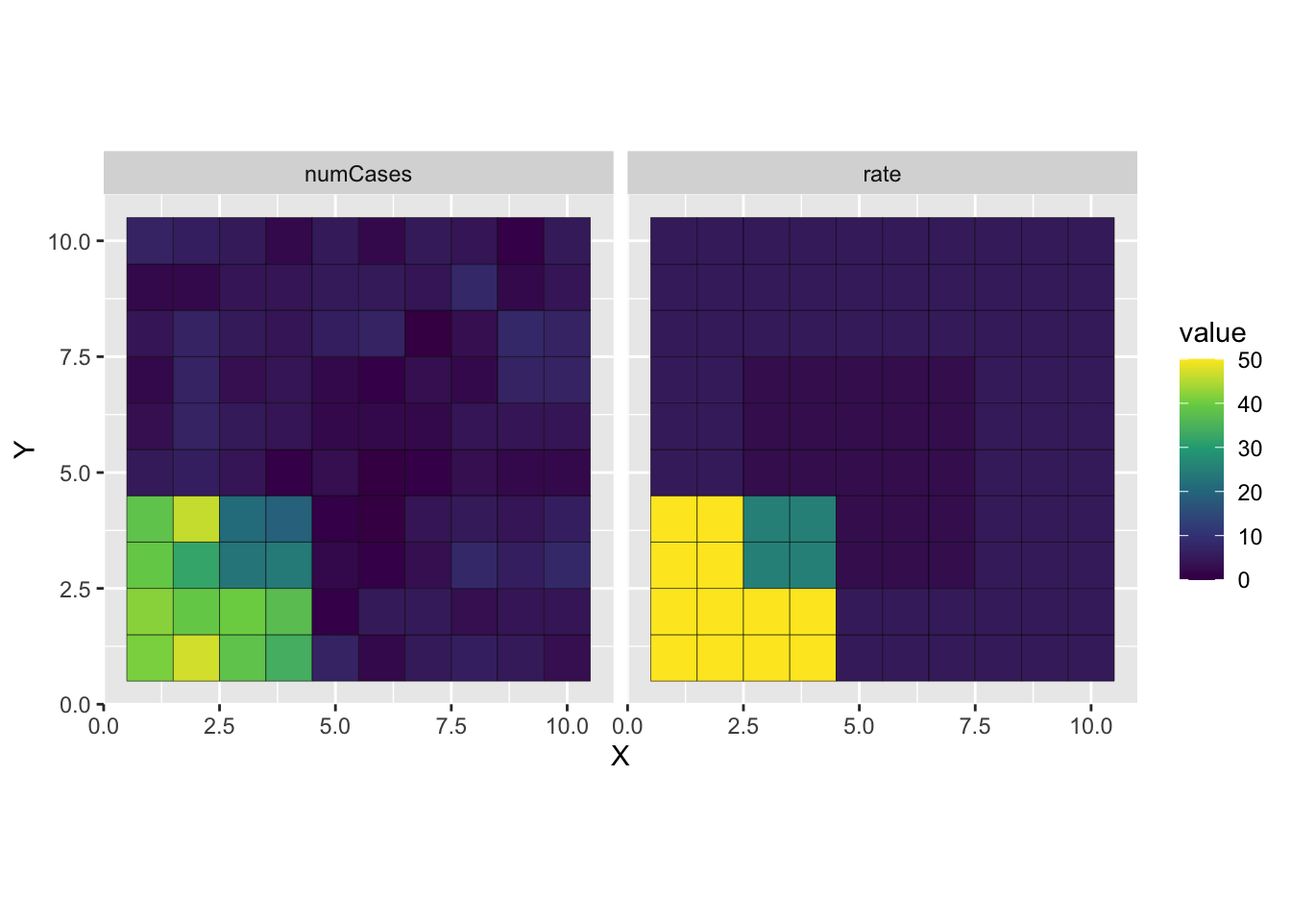
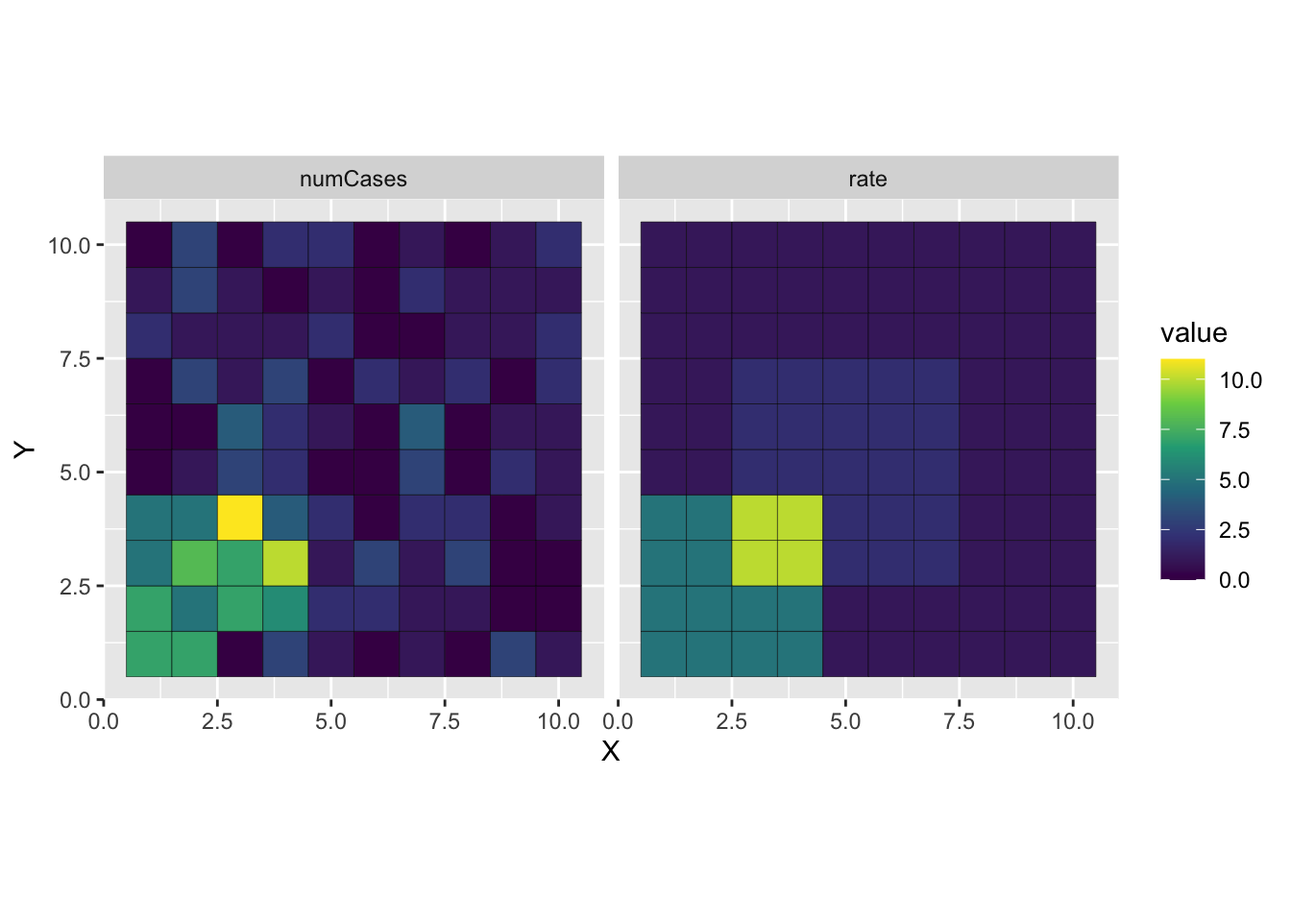
Built site for gh-pages

Changed region(s): [[0.0312, 0.1562, 1.0, 0.8438], [0.0312, 0.5, 0.0625, 0.5312]]

diff --git a/getis-ord.html b/getis-ord.html
@@ -297,8 +297,12 @@ window.Quarto = {
   <ul class="collapse">
   <li><a href="#exercises-1" id="toc-exercises-1" class="nav-link" data-scroll-target="#exercises-1">Exercises</a></li>
   </ul></li>
-  <li><a href="#calculate-getis-ord-gi-for-simulated-data-using-spdep" id="toc-calculate-getis-ord-gi-for-simulated-data-using-spdep" class="nav-link" data-scroll-target="#calculate-getis-ord-gi-for-simulated-data-using-spdep"><span class="header-section-number">6.5</span> Calculate Getis-Ord Gi* for simulated data using <code>spdep</code></a></li>
-  <li><a href="#plot-labeled-outcomes" id="toc-plot-labeled-outcomes" class="nav-link" data-scroll-target="#plot-labeled-outcomes"><span class="header-section-number">6.6</span> Plot labeled outcomes</a></li>
+  <li><a href="#from-local-to-global-clustering-calculating-g" id="toc-from-local-to-global-clustering-calculating-g" class="nav-link" data-scroll-target="#from-local-to-global-clustering-calculating-g"><span class="header-section-number">6.5</span> From local to global clustering: Calculating <span class="math inline">\(G^*\)</span></a>
+  <ul class="collapse">
+  <li><a href="#exercises-2" id="toc-exercises-2" class="nav-link" data-scroll-target="#exercises-2">Exercises</a></li>
+  </ul></li>
+  <li><a href="#calculate-getis-ord-gi-for-simulated-data-using-spdep" id="toc-calculate-getis-ord-gi-for-simulated-data-using-spdep" class="nav-link" data-scroll-target="#calculate-getis-ord-gi-for-simulated-data-using-spdep"><span class="header-section-number">6.6</span> Calculate Getis-Ord Gi* for simulated data using <code>spdep</code></a></li>
+  <li><a href="#plot-labeled-outcomes" id="toc-plot-labeled-outcomes" class="nav-link" data-scroll-target="#plot-labeled-outcomes"><span class="header-section-number">6.7</span> Plot labeled outcomes</a></li>
   </ul>
 </nav>
     </div>
@@ -353,61 +357,73 @@ window.Quarto = {
 <span id="cb2-17"><a href="#cb2-17" aria-hidden="true" tabindex="-1"></a>}</span></code><button title="Copy to Clipboard" class="code-copy-button"><i class="bi"></i></button></pre></div>
 </div>
 <div class="cell">
-<div class="sourceCode cell-code" id="cb3"><pre class="sourceCode r code-with-copy"><code class="sourceCode r"><span id="cb3-1"><a href="#cb3-1" aria-hidden="true" tabindex="-1"></a>overlappingRiskGrid <span class="ot">&lt;-</span> <span class="cf">function</span>(D, N, <span class="at">alpha =</span> <span class="dv">1</span>, <span class="at">tl =</span> <span class="fl">2.0</span>, <span class="at">center =</span> <span class="fl">2.0</span>) {</span>
-<span id="cb3-2"><a href="#cb3-2" aria-hidden="true" tabindex="-1"></a>  grid_df <span class="ot">&lt;-</span> <span class="fu">makeSquareGrid</span>(D)</span>
-<span id="cb3-3"><a href="#cb3-3" aria-hidden="true" tabindex="-1"></a></span>
-<span id="cb3-4"><a href="#cb3-4" aria-hidden="true" tabindex="-1"></a>  grid_df<span class="sc">$</span>N <span class="ot">&lt;-</span> N</span>
-<span id="cb3-5"><a href="#cb3-5" aria-hidden="true" tabindex="-1"></a></span>
-<span id="cb3-6"><a href="#cb3-6" aria-hidden="true" tabindex="-1"></a>  <span class="do">## This is the background, per-capita rate in each</span></span>
-<span id="cb3-7"><a href="#cb3-7" aria-hidden="true" tabindex="-1"></a>  <span class="do">## cell of our city</span></span>
-<span id="cb3-8"><a href="#cb3-8" aria-hidden="true" tabindex="-1"></a>  baseline_per_capita <span class="ot">&lt;-</span> alpha</span>
-<span id="cb3-9"><a href="#cb3-9" aria-hidden="true" tabindex="-1"></a></span>
-<span id="cb3-10"><a href="#cb3-10" aria-hidden="true" tabindex="-1"></a>  <span class="do">## This is the relative risk of the outcome for individuals</span></span>
-<span id="cb3-11"><a href="#cb3-11" aria-hidden="true" tabindex="-1"></a>  <span class="do">## in the top-left qudrant</span></span>
-<span id="cb3-12"><a href="#cb3-12" aria-hidden="true" tabindex="-1"></a>  top_left_rr <span class="ot">&lt;-</span> tl</span>
-<span id="cb3-13"><a href="#cb3-13" aria-hidden="true" tabindex="-1"></a></span>
-<span id="cb3-14"><a href="#cb3-14" aria-hidden="true" tabindex="-1"></a>  <span class="do">## This is the relative risk of the outcome for</span></span>
-<span id="cb3-15"><a href="#cb3-15" aria-hidden="true" tabindex="-1"></a>  <span class="do">## individuals living towards the center of the</span></span>
-<span id="cb3-16"><a href="#cb3-16" aria-hidden="true" tabindex="-1"></a>  <span class="do">## simulated city</span></span>
-<span id="cb3-17"><a href="#cb3-17" aria-hidden="true" tabindex="-1"></a>  center_rr <span class="ot">&lt;-</span> center</span>
-<span id="cb3-18"><a href="#cb3-18" aria-hidden="true" tabindex="-1"></a></span>
-<span id="cb3-19"><a href="#cb3-19" aria-hidden="true" tabindex="-1"></a>  <span class="do">## Here, we initialize a variable for the per-capita rate</span></span>
-<span id="cb3-20"><a href="#cb3-20" aria-hidden="true" tabindex="-1"></a>  <span class="do">## within each cell</span></span>
-<span id="cb3-21"><a href="#cb3-21" aria-hidden="true" tabindex="-1"></a>  grid_df<span class="sc">$</span>rate <span class="ot">&lt;-</span> <span class="dv">0</span></span>
-<span id="cb3-22"><a href="#cb3-22" aria-hidden="true" tabindex="-1"></a></span>
-<span id="cb3-23"><a href="#cb3-23" aria-hidden="true" tabindex="-1"></a>  <span class="do">## Make the middle risk area 4 x 4 and the top-left area also 4x4</span></span>
-<span id="cb3-24"><a href="#cb3-24" aria-hidden="true" tabindex="-1"></a></span>
-<span id="cb3-25"><a href="#cb3-25" aria-hidden="true" tabindex="-1"></a>  center_low_xy <span class="ot">&lt;-</span> <span class="fu">round</span>(D <span class="sc">/</span> <span class="dv">2</span>) <span class="sc">-</span> <span class="dv">2</span></span>
-<span id="cb3-26"><a href="#cb3-26" aria-hidden="true" tabindex="-1"></a>  center_high_xy <span class="ot">&lt;-</span> <span class="fu">round</span>(D <span class="sc">/</span> <span class="dv">2</span>) <span class="sc">+</span> <span class="dv">2</span></span>
-<span id="cb3-27"><a href="#cb3-27" aria-hidden="true" tabindex="-1"></a></span>
-<span id="cb3-28"><a href="#cb3-28" aria-hidden="true" tabindex="-1"></a>  <span class="do">## This is just filling in the per-capita rates for each cell</span></span>
-<span id="cb3-29"><a href="#cb3-29" aria-hidden="true" tabindex="-1"></a>  <span class="do">## as a function of where they are on the grid (assuming a 10 x 10 grid)</span></span>
-<span id="cb3-30"><a href="#cb3-30" aria-hidden="true" tabindex="-1"></a>  grid_df <span class="ot">&lt;-</span> grid_df <span class="sc">%&gt;%</span></span>
-<span id="cb3-31"><a href="#cb3-31" aria-hidden="true" tabindex="-1"></a>    <span class="fu">mutate</span>(<span class="at">rate =</span> <span class="fu">case_when</span>(<span class="fu">between</span>(X, <span class="dv">1</span>, <span class="dv">4</span>) <span class="sc">&amp;</span> <span class="fu">between</span>(Y, <span class="dv">1</span>, <span class="dv">4</span>) <span class="sc">~</span> baseline_per_capita <span class="sc">*</span> top_left_rr,</span>
-<span id="cb3-32"><a href="#cb3-32" aria-hidden="true" tabindex="-1"></a>      <span class="at">.default =</span> baseline_per_capita</span>
-<span id="cb3-33"><a href="#cb3-33" aria-hidden="true" tabindex="-1"></a>    )) <span class="sc">%&gt;%</span></span>
-<span id="cb3-34"><a href="#cb3-34" aria-hidden="true" tabindex="-1"></a>    <span class="fu">mutate</span>(<span class="at">rate =</span> <span class="fu">case_when</span>(<span class="fu">between</span>(X, center_low_xy, center_high_xy) <span class="sc">&amp;</span> <span class="fu">between</span>(Y, center_low_xy, center_high_xy) <span class="sc">~</span> rate <span class="sc">*</span> center_rr,</span>
-<span id="cb3-35"><a href="#cb3-35" aria-hidden="true" tabindex="-1"></a>      <span class="at">.default =</span> rate</span>
-<span id="cb3-36"><a href="#cb3-36" aria-hidden="true" tabindex="-1"></a>    ))</span>
-<span id="cb3-37"><a href="#cb3-37" aria-hidden="true" tabindex="-1"></a></span>
-<span id="cb3-38"><a href="#cb3-38" aria-hidden="true" tabindex="-1"></a>  <span class="do">## Now we can also draw the number of cases observed in</span></span>
-<span id="cb3-39"><a href="#cb3-39" aria-hidden="true" tabindex="-1"></a>  <span class="do">## each grid cell</span></span>
-<span id="cb3-40"><a href="#cb3-40" aria-hidden="true" tabindex="-1"></a>  grid_df <span class="ot">&lt;-</span> grid_df <span class="sc">%&gt;%</span></span>
-<span id="cb3-41"><a href="#cb3-41" aria-hidden="true" tabindex="-1"></a>    <span class="fu">mutate</span>(<span class="at">p_disease =</span> <span class="dv">1</span> <span class="sc">-</span> <span class="fu">exp</span>(<span class="sc">-</span>rate <span class="sc">/</span> N))</span>
-<span id="cb3-42"><a href="#cb3-42" aria-hidden="true" tabindex="-1"></a></span>
-<span id="cb3-43"><a href="#cb3-43" aria-hidden="true" tabindex="-1"></a>  <span class="do">## Simulate the observed number of cases in each cell</span></span>
-<span id="cb3-44"><a href="#cb3-44" aria-hidden="true" tabindex="-1"></a>  <span class="do">## as a function of the population size (N) and probability of diseaw</span></span>
-<span id="cb3-45"><a href="#cb3-45" aria-hidden="true" tabindex="-1"></a>  grid_df<span class="sc">$</span>numCases <span class="ot">&lt;-</span> <span class="fu">rbinom</span>(<span class="fu">nrow</span>(grid_df), grid_df<span class="sc">$</span>N, grid_df<span class="sc">$</span>p_disease)</span>
-<span id="cb3-46"><a href="#cb3-46" aria-hidden="true" tabindex="-1"></a></span>
-<span id="cb3-47"><a href="#cb3-47" aria-hidden="true" tabindex="-1"></a>  <span class="fu">return</span>(grid_df)</span>
-<span id="cb3-48"><a href="#cb3-48" aria-hidden="true" tabindex="-1"></a>}</span></code><button title="Copy to Clipboard" class="code-copy-button"><i class="bi"></i></button></pre></div>
+<div class="sourceCode cell-code" id="annotated-cell-3"><pre class="sourceCode r code-annotation-code code-with-copy code-annotated"><code class="sourceCode r"><span id="annotated-cell-3-1"><a href="#annotated-cell-3-1" aria-hidden="true" tabindex="-1"></a>overlappingRiskGrid <span class="ot">&lt;-</span> <span class="cf">function</span>(D, N, <span class="at">alpha =</span> <span class="dv">1</span>, <span class="at">bl_rr =</span> <span class="fl">2.0</span>, <span class="at">center_rr =</span> <span class="fl">2.0</span>) {</span>
+<span id="annotated-cell-3-2"><a href="#annotated-cell-3-2" aria-hidden="true" tabindex="-1"></a>  grid_df <span class="ot">&lt;-</span> <span class="fu">makeSquareGrid</span>(D)</span>
+<span id="annotated-cell-3-3"><a href="#annotated-cell-3-3" aria-hidden="true" tabindex="-1"></a></span>
+<span id="annotated-cell-3-4"><a href="#annotated-cell-3-4" aria-hidden="true" tabindex="-1"></a>  grid_df<span class="sc">$</span>N <span class="ot">&lt;-</span> N</span>
+<span id="annotated-cell-3-5"><a href="#annotated-cell-3-5" aria-hidden="true" tabindex="-1"></a></span>
+<span id="annotated-cell-3-6"><a href="#annotated-cell-3-6" aria-hidden="true" tabindex="-1"></a>  <span class="do">## This is the background, per-capita rate in each</span></span>
+<span id="annotated-cell-3-7"><a href="#annotated-cell-3-7" aria-hidden="true" tabindex="-1"></a>  <span class="do">## cell of our city</span></span>
+<span id="annotated-cell-3-8"><a href="#annotated-cell-3-8" aria-hidden="true" tabindex="-1"></a>  baseline_per_capita <span class="ot">&lt;-</span> alpha</span>
+<span id="annotated-cell-3-9"><a href="#annotated-cell-3-9" aria-hidden="true" tabindex="-1"></a></span>
+<span id="annotated-cell-3-10"><a href="#annotated-cell-3-10" aria-hidden="true" tabindex="-1"></a>  <span class="do">## Here, we initialize a variable for the per-capita rate</span></span>
+<span id="annotated-cell-3-11"><a href="#annotated-cell-3-11" aria-hidden="true" tabindex="-1"></a>  <span class="do">## within each cell</span></span>
+<span id="annotated-cell-3-12"><a href="#annotated-cell-3-12" aria-hidden="true" tabindex="-1"></a>  grid_df<span class="sc">$</span>rate <span class="ot">&lt;-</span> <span class="dv">0</span></span>
+<span id="annotated-cell-3-13"><a href="#annotated-cell-3-13" aria-hidden="true" tabindex="-1"></a></span>
+<span id="annotated-cell-3-14"><a href="#annotated-cell-3-14" aria-hidden="true" tabindex="-1"></a>  <span class="do">## Make the middle risk area 4 x 4 and the top-left area also 4x4</span></span>
+<span id="annotated-cell-3-15"><a href="#annotated-cell-3-15" aria-hidden="true" tabindex="-1"></a></span>
+<span id="annotated-cell-3-16"><a href="#annotated-cell-3-16" aria-hidden="true" tabindex="-1"></a>  center_low_xy <span class="ot">&lt;-</span> <span class="fu">round</span>(D <span class="sc">/</span> <span class="dv">2</span>) <span class="sc">-</span> <span class="dv">2</span></span>
+<span id="annotated-cell-3-17"><a href="#annotated-cell-3-17" aria-hidden="true" tabindex="-1"></a>  center_high_xy <span class="ot">&lt;-</span> <span class="fu">round</span>(D <span class="sc">/</span> <span class="dv">2</span>) <span class="sc">+</span> <span class="dv">2</span></span>
+<span id="annotated-cell-3-18"><a href="#annotated-cell-3-18" aria-hidden="true" tabindex="-1"></a></span>
+<span id="annotated-cell-3-19"><a href="#annotated-cell-3-19" aria-hidden="true" tabindex="-1"></a>  <span class="do">## This is filling in the per-capita rates for each cell</span></span>
+<span id="annotated-cell-3-20"><a href="#annotated-cell-3-20" aria-hidden="true" tabindex="-1"></a>  <span class="do">## as a function of where they are on the grid (assuming a 10 x 10 grid)</span></span>
+<span id="annotated-cell-3-21"><a href="#annotated-cell-3-21" aria-hidden="true" tabindex="-1"></a>  grid_df <span class="ot">&lt;-</span> grid_df <span class="sc">%&gt;%</span></span>
+<button class="code-annotation-anchor" data-target-cell="annotated-cell-3" data-target-annotation="1">1</button><span id="annotated-cell-3-22" class="code-annotation-target"><a href="#annotated-cell-3-22" aria-hidden="true" tabindex="-1"></a>    <span class="fu">mutate</span>(<span class="at">bl =</span> <span class="fu">case_when</span>(<span class="fu">between</span>(X, <span class="dv">1</span>, <span class="dv">4</span>) <span class="sc">&amp;</span> <span class="fu">between</span>(Y, <span class="dv">1</span>, <span class="dv">4</span>) <span class="sc">~</span> <span class="dv">1</span>,</span>
+<span id="annotated-cell-3-23"><a href="#annotated-cell-3-23" aria-hidden="true" tabindex="-1"></a>      <span class="at">.default =</span> <span class="dv">0</span></span>
+<span id="annotated-cell-3-24"><a href="#annotated-cell-3-24" aria-hidden="true" tabindex="-1"></a>    )) <span class="sc">%&gt;%</span></span>
+<button class="code-annotation-anchor" data-target-cell="annotated-cell-3" data-target-annotation="2">2</button><span id="annotated-cell-3-25" class="code-annotation-target"><a href="#annotated-cell-3-25" aria-hidden="true" tabindex="-1"></a>    <span class="fu">mutate</span>(<span class="at">center =</span> <span class="fu">case_when</span>(<span class="fu">between</span>(X, center_low_xy, center_high_xy) <span class="sc">&amp;</span> <span class="fu">between</span>(Y, center_low_xy, center_high_xy) <span class="sc">~</span> <span class="dv">1</span>,</span>
+<span id="annotated-cell-3-26"><a href="#annotated-cell-3-26" aria-hidden="true" tabindex="-1"></a>      <span class="at">.default =</span> <span class="dv">0</span></span>
+<span id="annotated-cell-3-27"><a href="#annotated-cell-3-27" aria-hidden="true" tabindex="-1"></a>    )) <span class="sc">%&gt;%</span></span>
+<button class="code-annotation-anchor" data-target-cell="annotated-cell-3" data-target-annotation="3">3</button><span id="annotated-cell-3-28" class="code-annotation-target"><a href="#annotated-cell-3-28" aria-hidden="true" tabindex="-1"></a>      <span class="fu">mutate</span>(<span class="at">rate =</span> <span class="fu">exp</span>(<span class="fu">log</span>(alpha) <span class="sc">+</span> <span class="fu">log</span>(center_rr)<span class="sc">*</span>center <span class="sc">+</span> <span class="fu">log</span>(bl_rr)<span class="sc">*</span>bl))</span>
+<span id="annotated-cell-3-29"><a href="#annotated-cell-3-29" aria-hidden="true" tabindex="-1"></a></span>
+<span id="annotated-cell-3-30"><a href="#annotated-cell-3-30" aria-hidden="true" tabindex="-1"></a>  <span class="do">## Now we can also draw the number of cases observed in</span></span>
+<span id="annotated-cell-3-31"><a href="#annotated-cell-3-31" aria-hidden="true" tabindex="-1"></a>  <span class="do">## each grid celll</span></span>
+<button class="code-annotation-anchor" data-target-cell="annotated-cell-3" data-target-annotation="4">4</button><span id="annotated-cell-3-32" class="code-annotation-target"><a href="#annotated-cell-3-32" aria-hidden="true" tabindex="-1"></a>  grid_df <span class="ot">&lt;-</span> grid_df <span class="sc">%&gt;%</span></span>
+<span id="annotated-cell-3-33"><a href="#annotated-cell-3-33" aria-hidden="true" tabindex="-1"></a>    <span class="fu">mutate</span>(<span class="at">p_disease =</span> <span class="dv">1</span> <span class="sc">-</span> <span class="fu">exp</span>(<span class="sc">-</span>rate <span class="sc">/</span> N))</span>
+<span id="annotated-cell-3-34"><a href="#annotated-cell-3-34" aria-hidden="true" tabindex="-1"></a></span>
+<span id="annotated-cell-3-35"><a href="#annotated-cell-3-35" aria-hidden="true" tabindex="-1"></a>  <span class="do">## Simulate the observed number of cases in each cell</span></span>
+<span id="annotated-cell-3-36"><a href="#annotated-cell-3-36" aria-hidden="true" tabindex="-1"></a>  <span class="do">## as a function of the population size (N) and probability of diseaw</span></span>
+<span id="annotated-cell-3-37"><a href="#annotated-cell-3-37" aria-hidden="true" tabindex="-1"></a>  grid_df<span class="sc">$</span>numCases <span class="ot">&lt;-</span> <span class="fu">rbinom</span>(<span class="fu">nrow</span>(grid_df), grid_df<span class="sc">$</span>N, grid_df<span class="sc">$</span>p_disease)</span>
+<span id="annotated-cell-3-38"><a href="#annotated-cell-3-38" aria-hidden="true" tabindex="-1"></a></span>
+<span id="annotated-cell-3-39"><a href="#annotated-cell-3-39" aria-hidden="true" tabindex="-1"></a>  <span class="fu">return</span>(grid_df)</span>
+<span id="annotated-cell-3-40"><a href="#annotated-cell-3-40" aria-hidden="true" tabindex="-1"></a>}</span><div class="code-annotation-gutter-bg"></div><div class="code-annotation-gutter"></div></code><button title="Copy to Clipboard" class="code-copy-button"><i class="bi"></i></button></pre></div>
+<div class="cell-annotation">
+<dl class="code-annotation-container-hidden code-annotation-container-grid">
+<dt data-target-cell="annotated-cell-3" data-target-annotation="1">1</dt>
+<dd>
+<span data-code-cell="annotated-cell-3" data-code-lines="22,23,24" data-code-annotation="1">Create a binary indicator variable designating whether a cell is in the center hot or cold spot.</span>
+</dd>
+<dt data-target-cell="annotated-cell-3" data-target-annotation="2">2</dt>
+<dd>
+<span data-code-cell="annotated-cell-3" data-code-lines="25,26,27" data-code-annotation="2">Create a binary indicator variable designating whether a cell is in the bottom-left hot or cold spot.</span>
+</dd>
+<dt data-target-cell="annotated-cell-3" data-target-annotation="3">3</dt>
+<dd>
+<span data-code-cell="annotated-cell-3" data-code-lines="28" data-code-annotation="3">Calculate the total rate at location <span class="math inline">\(i\)</span> as the sum of the logged relative risks multipled by binary indicators.</span>
+</dd>
+<dt data-target-cell="annotated-cell-3" data-target-annotation="4">4</dt>
+<dd>
+<span data-code-cell="annotated-cell-3" data-code-lines="32,33" data-code-annotation="4">Convert this continuous rate to a probability using the exponential cumulative distribution function.</span>
+</dd>
+</dl>
+</div>
 </div>
 </section>
 <section id="simulate-input-data" class="level2" data-number="6.3">
 <h2 data-number="6.3" class="anchored" data-anchor-id="simulate-input-data"><span class="header-section-number">6.3</span> Simulate input data</h2>
 <div class="cell">
 <div class="sourceCode cell-code" id="annotated-cell-4"><pre class="sourceCode r code-annotation-code code-with-copy code-annotated"><code class="sourceCode r"><button class="code-annotation-anchor" data-target-cell="annotated-cell-4" data-target-annotation="1">1</button><span id="annotated-cell-4-1" class="code-annotation-target"><a href="#annotated-cell-4-1" aria-hidden="true" tabindex="-1"></a>D <span class="ot">&lt;-</span> <span class="dv">10</span></span>
-<button class="code-annotation-anchor" data-target-cell="annotated-cell-4" data-target-annotation="2">2</button><span id="annotated-cell-4-2" class="code-annotation-target"><a href="#annotated-cell-4-2" aria-hidden="true" tabindex="-1"></a>cityData <span class="ot">&lt;-</span> <span class="fu">overlappingRiskGrid</span>(D, <span class="dv">100</span>, <span class="dv">5</span>, <span class="dv">10</span>, <span class="fl">0.5</span>)</span>
+<button class="code-annotation-anchor" data-target-cell="annotated-cell-4" data-target-annotation="2">2</button><span id="annotated-cell-4-2" class="code-annotation-target"><a href="#annotated-cell-4-2" aria-hidden="true" tabindex="-1"></a>cityData <span class="ot">&lt;-</span> <span class="fu">overlappingRiskGrid</span>(D, <span class="dv">100</span>, <span class="dv">1</span>, <span class="dv">5</span> , <span class="dv">2</span>)</span>
 <button class="code-annotation-anchor" data-target-cell="annotated-cell-4" data-target-annotation="3">3</button><span id="annotated-cell-4-3" class="code-annotation-target"><a href="#annotated-cell-4-3" aria-hidden="true" tabindex="-1"></a>cityDataLong <span class="ot">&lt;-</span> cityData <span class="sc">%&gt;%</span></span>
 <span id="annotated-cell-4-4"><a href="#annotated-cell-4-4" aria-hidden="true" tabindex="-1"></a>  <span class="fu">pivot_longer</span>(<span class="fu">c</span>(rate, numCases))</span>
 <span id="annotated-cell-4-5"><a href="#annotated-cell-4-5" aria-hidden="true" tabindex="-1"></a></span>
@@ -478,7 +494,7 @@ G_i^* = \frac{\sum_j w_{ij} x_j}{\sum_j x_j}
 <button class="code-annotation-anchor" data-target-cell="annotated-cell-5" data-target-annotation="5">5</button><span id="annotated-cell-5-12" class="code-annotation-target"><a href="#annotated-cell-5-12" aria-hidden="true" tabindex="-1"></a><span class="cf">for</span> (i <span class="cf">in</span> <span class="dv">1</span><span class="sc">:</span>num_loc) {</span>
 <button class="code-annotation-anchor" data-target-cell="annotated-cell-5" data-target-annotation="6">6</button><span id="annotated-cell-5-13" class="code-annotation-target"><a href="#annotated-cell-5-13" aria-hidden="true" tabindex="-1"></a>  neighborIndices <span class="ot">&lt;-</span> nbw<span class="sc">$</span>neighbours[[i]]</span>
 <button class="code-annotation-anchor" data-target-cell="annotated-cell-5" data-target-annotation="7">7</button><span id="annotated-cell-5-14" class="code-annotation-target"><a href="#annotated-cell-5-14" aria-hidden="true" tabindex="-1"></a>  weights <span class="ot">&lt;-</span> nbw<span class="sc">$</span>weights[[i]]</span>
-<span id="annotated-cell-5-15"><a href="#annotated-cell-5-15" aria-hidden="true" tabindex="-1"></a>  gi_vals[[i]] <span class="ot">&lt;-</span> <span class="fu">sum</span>(neighborIndices <span class="sc">*</span> cityData<span class="sc">$</span>numCases[neighborIndices] <span class="sc">*</span></span>
+<span id="annotated-cell-5-15"><a href="#annotated-cell-5-15" aria-hidden="true" tabindex="-1"></a>  gi_vals[[i]] <span class="ot">&lt;-</span> <span class="fu">sum</span>(cityData<span class="sc">$</span>numCases[neighborIndices] <span class="sc">*</span></span>
 <button class="code-annotation-anchor" data-target-cell="annotated-cell-5" data-target-annotation="8">8</button><span id="annotated-cell-5-16" class="code-annotation-target"><a href="#annotated-cell-5-16" aria-hidden="true" tabindex="-1"></a>    weights) <span class="sc">/</span> totalCases</span>
 <span id="annotated-cell-5-17"><a href="#annotated-cell-5-17" aria-hidden="true" tabindex="-1"></a>}</span><div class="code-annotation-gutter-bg"></div><div class="code-annotation-gutter"></div></code><button title="Copy to Clipboard" class="code-copy-button"><i class="bi"></i></button></pre></div>
 <div class="cell-annotation">
@@ -519,13 +535,13 @@ G_i^* = \frac{\sum_j w_{ij} x_j}{\sum_j x_j}
 </div>
 </div>
 <div class="cell">
-<div class="sourceCode cell-code" id="cb4"><pre class="sourceCode r code-with-copy"><code class="sourceCode r"><span id="cb4-1"><a href="#cb4-1" aria-hidden="true" tabindex="-1"></a>cityData<span class="sc">$</span>giStar <span class="ot">&lt;-</span> gi_vals</span>
-<span id="cb4-2"><a href="#cb4-2" aria-hidden="true" tabindex="-1"></a>g <span class="ot">&lt;-</span> <span class="fu">ggplot</span>(cityData) <span class="sc">+</span></span>
-<span id="cb4-3"><a href="#cb4-3" aria-hidden="true" tabindex="-1"></a>  <span class="fu">geom_tile</span>(<span class="fu">aes</span>(<span class="at">x =</span> X, <span class="at">y =</span> Y, <span class="at">fill =</span> giStar), <span class="at">colour =</span> <span class="st">"black"</span>) <span class="sc">+</span></span>
-<span id="cb4-4"><a href="#cb4-4" aria-hidden="true" tabindex="-1"></a>  <span class="fu">coord_equal</span>() <span class="sc">+</span></span>
-<span id="cb4-5"><a href="#cb4-5" aria-hidden="true" tabindex="-1"></a>  <span class="fu">scale_fill_viridis_c</span>()</span>
-<span id="cb4-6"><a href="#cb4-6" aria-hidden="true" tabindex="-1"></a></span>
-<span id="cb4-7"><a href="#cb4-7" aria-hidden="true" tabindex="-1"></a><span class="fu">plot</span>(g)</span></code><button title="Copy to Clipboard" class="code-copy-button"><i class="bi"></i></button></pre></div>
+<div class="sourceCode cell-code" id="cb3"><pre class="sourceCode r code-with-copy"><code class="sourceCode r"><span id="cb3-1"><a href="#cb3-1" aria-hidden="true" tabindex="-1"></a>cityData<span class="sc">$</span>giStar <span class="ot">&lt;-</span> gi_vals</span>
+<span id="cb3-2"><a href="#cb3-2" aria-hidden="true" tabindex="-1"></a>g <span class="ot">&lt;-</span> <span class="fu">ggplot</span>(cityData) <span class="sc">+</span></span>
+<span id="cb3-3"><a href="#cb3-3" aria-hidden="true" tabindex="-1"></a>  <span class="fu">geom_tile</span>(<span class="fu">aes</span>(<span class="at">x =</span> X, <span class="at">y =</span> Y, <span class="at">fill =</span> giStar), <span class="at">colour =</span> <span class="st">"black"</span>) <span class="sc">+</span></span>
+<span id="cb3-4"><a href="#cb3-4" aria-hidden="true" tabindex="-1"></a>  <span class="fu">coord_equal</span>() <span class="sc">+</span></span>
+<span id="cb3-5"><a href="#cb3-5" aria-hidden="true" tabindex="-1"></a>  <span class="fu">scale_fill_viridis_c</span>()</span>
+<span id="cb3-6"><a href="#cb3-6" aria-hidden="true" tabindex="-1"></a></span>
+<span id="cb3-7"><a href="#cb3-7" aria-hidden="true" tabindex="-1"></a><span class="fu">plot</span>(g)</span></code><button title="Copy to Clipboard" class="code-copy-button"><i class="bi"></i></button></pre></div>
 <div class="cell-output-display">
 <div>
 <figure class="figure">
@@ -543,40 +559,63 @@ G_i^* = \frac{\sum_j w_{ij} x_j}{\sum_j x_j}
 </ol>
 </section>
 </section>
-<section id="calculate-getis-ord-gi-for-simulated-data-using-spdep" class="level2" data-number="6.5">
-<h2 data-number="6.5" class="anchored" data-anchor-id="calculate-getis-ord-gi-for-simulated-data-using-spdep"><span class="header-section-number">6.5</span> Calculate Getis-Ord Gi* for simulated data using <code>spdep</code></h2>
+<section id="from-local-to-global-clustering-calculating-g" class="level2" data-number="6.5">
+<h2 data-number="6.5" class="anchored" data-anchor-id="from-local-to-global-clustering-calculating-g"><span class="header-section-number">6.5</span> From local to global clustering: Calculating <span class="math inline">\(G^*\)</span></h2>
+<p>We can caclculate the global version of <span class="math inline">\(G^*\)</span> as a weighted sum of <span class="math inline">\(G_i^*\)</span> values, i.e.:</p>
+<p><span class="math display">\[
+G^* = \frac{\sum_{i} x_i G_i^*}{\sum_i x_i}
+\]</span></p>
+<p>This makes it easy to calculate <span class="math inline">\(G^*\)</span> using our pre-computed <span class="math inline">\(G_i^*\)</span> values:</p>
 <div class="cell">
-<div class="sourceCode cell-code" id="cb5"><pre class="sourceCode r code-with-copy"><code class="sourceCode r"><span id="cb5-1"><a href="#cb5-1" aria-hidden="true" tabindex="-1"></a>gridNeighbors <span class="ot">&lt;-</span> <span class="fu">include.self</span>(<span class="fu">cell2nb</span>(D, D, <span class="at">type =</span> <span class="st">"queen"</span>, <span class="at">torus =</span> <span class="cn">FALSE</span>))</span>
-<span id="cb5-2"><a href="#cb5-2" aria-hidden="true" tabindex="-1"></a>xyc <span class="ot">&lt;-</span> <span class="fu">attr</span>(gridNeighbors, <span class="st">"region.id"</span>)</span>
-<span id="cb5-3"><a href="#cb5-3" aria-hidden="true" tabindex="-1"></a></span>
-<span id="cb5-4"><a href="#cb5-4" aria-hidden="true" tabindex="-1"></a><span class="do">## Extracts the x,y coords of each cell</span></span>
-<span id="cb5-5"><a href="#cb5-5" aria-hidden="true" tabindex="-1"></a>xy <span class="ot">&lt;-</span> <span class="fu">matrix</span>(<span class="fu">as.integer</span>(<span class="fu">unlist</span>(<span class="fu">strsplit</span>(xyc, <span class="st">":"</span>))), <span class="at">ncol =</span> <span class="dv">2</span>, <span class="at">byrow =</span> <span class="cn">TRUE</span>)</span>
-<span id="cb5-6"><a href="#cb5-6" aria-hidden="true" tabindex="-1"></a></span>
-<span id="cb5-7"><a href="#cb5-7" aria-hidden="true" tabindex="-1"></a>xy <span class="ot">&lt;-</span> <span class="fu">data.frame</span>(<span class="at">x =</span> xy[, <span class="dv">1</span>], <span class="at">y =</span> xy[, <span class="dv">2</span>])</span>
-<span id="cb5-8"><a href="#cb5-8" aria-hidden="true" tabindex="-1"></a></span>
-<span id="cb5-9"><a href="#cb5-9" aria-hidden="true" tabindex="-1"></a>gridNeighborList <span class="ot">&lt;-</span> <span class="fu">nb2listw</span>(gridNeighbors, <span class="at">zero.policy =</span> <span class="cn">TRUE</span>, <span class="at">style =</span> <span class="st">"B"</span>)</span>
-<span id="cb5-10"><a href="#cb5-10" aria-hidden="true" tabindex="-1"></a></span>
-<span id="cb5-11"><a href="#cb5-11" aria-hidden="true" tabindex="-1"></a>localGEst <span class="ot">&lt;-</span> <span class="fu">localG</span>(cityData<span class="sc">$</span>numCases, gridNeighborList)</span>
-<span id="cb5-12"><a href="#cb5-12" aria-hidden="true" tabindex="-1"></a></span>
-<span id="cb5-13"><a href="#cb5-13" aria-hidden="true" tabindex="-1"></a>cityData<span class="sc">$</span>cluster <span class="ot">&lt;-</span> <span class="fu">attr</span>(localGEst, <span class="st">"cluster"</span>)</span>
-<span id="cb5-14"><a href="#cb5-14" aria-hidden="true" tabindex="-1"></a>cityData<span class="sc">$</span>gScore <span class="ot">&lt;-</span> <span class="fu">as.vector</span>(localGEst)</span>
-<span id="cb5-15"><a href="#cb5-15" aria-hidden="true" tabindex="-1"></a>cityData<span class="sc">$</span>sig <span class="ot">&lt;-</span> <span class="fu">as.numeric</span>(<span class="fu">abs</span>(<span class="fu">as.vector</span>(localGEst)) <span class="sc">&gt;</span> <span class="fl">3.2</span>)</span></code><button title="Copy to Clipboard" class="code-copy-button"><i class="bi"></i></button></pre></div>
+<div class="sourceCode cell-code" id="cb4"><pre class="sourceCode r code-with-copy"><code class="sourceCode r"><span id="cb4-1"><a href="#cb4-1" aria-hidden="true" tabindex="-1"></a>gs <span class="ot">&lt;-</span> <span class="fu">sum</span>(cityData<span class="sc">$</span>numCases<span class="sc">*</span>cityData<span class="sc">$</span>giStar)<span class="sc">/</span><span class="fu">sum</span>(cityData<span class="sc">$</span>numCases)</span>
+<span id="cb4-2"><a href="#cb4-2" aria-hidden="true" tabindex="-1"></a><span class="fu">print</span>(gs)</span></code><button title="Copy to Clipboard" class="code-copy-button"><i class="bi"></i></button></pre></div>
+<div class="cell-output cell-output-stdout">
+<pre><code>[1] 0.1426489</code></pre>
+</div>
+</div>
+<section id="exercises-2" class="level3">
+<h3 class="anchored" data-anchor-id="exercises-2">Exercises</h3>
+<ol type="1">
+<li><p>What input values to <code>overlappingRiskGrid</code> give you the largest values of <span class="math inline">\(G^*\)</span>? Are these similar or different from the values that generate robust <em>local</em> clusters?</p></li>
+<li><p>How about the lowest?</p></li>
+<li><p>Thinking theoretically, what scenario do you think would generate the highest possible value of <span class="math inline">\(G^*\)</span>? The lowest? Why?</p></li>
+</ol>
+</section>
+</section>
+<section id="calculate-getis-ord-gi-for-simulated-data-using-spdep" class="level2" data-number="6.6">
+<h2 data-number="6.6" class="anchored" data-anchor-id="calculate-getis-ord-gi-for-simulated-data-using-spdep"><span class="header-section-number">6.6</span> Calculate Getis-Ord Gi* for simulated data using <code>spdep</code></h2>
+<div class="cell">
+<div class="sourceCode cell-code" id="cb6"><pre class="sourceCode r code-with-copy"><code class="sourceCode r"><span id="cb6-1"><a href="#cb6-1" aria-hidden="true" tabindex="-1"></a>gridNeighbors <span class="ot">&lt;-</span> <span class="fu">include.self</span>(<span class="fu">cell2nb</span>(D, D, <span class="at">type =</span> <span class="st">"queen"</span>, <span class="at">torus =</span> <span class="cn">FALSE</span>))</span>
+<span id="cb6-2"><a href="#cb6-2" aria-hidden="true" tabindex="-1"></a>xyc <span class="ot">&lt;-</span> <span class="fu">attr</span>(gridNeighbors, <span class="st">"region.id"</span>)</span>
+<span id="cb6-3"><a href="#cb6-3" aria-hidden="true" tabindex="-1"></a></span>
+<span id="cb6-4"><a href="#cb6-4" aria-hidden="true" tabindex="-1"></a><span class="do">## Extracts the x,y coords of each cell</span></span>
+<span id="cb6-5"><a href="#cb6-5" aria-hidden="true" tabindex="-1"></a>xy <span class="ot">&lt;-</span> <span class="fu">matrix</span>(<span class="fu">as.integer</span>(<span class="fu">unlist</span>(<span class="fu">strsplit</span>(xyc, <span class="st">":"</span>))), <span class="at">ncol =</span> <span class="dv">2</span>, <span class="at">byrow =</span> <span class="cn">TRUE</span>)</span>
+<span id="cb6-6"><a href="#cb6-6" aria-hidden="true" tabindex="-1"></a></span>
+<span id="cb6-7"><a href="#cb6-7" aria-hidden="true" tabindex="-1"></a>xy <span class="ot">&lt;-</span> <span class="fu">data.frame</span>(<span class="at">x =</span> xy[, <span class="dv">1</span>], <span class="at">y =</span> xy[, <span class="dv">2</span>])</span>
+<span id="cb6-8"><a href="#cb6-8" aria-hidden="true" tabindex="-1"></a></span>
+<span id="cb6-9"><a href="#cb6-9" aria-hidden="true" tabindex="-1"></a>gridNeighborList <span class="ot">&lt;-</span> <span class="fu">nb2listw</span>(gridNeighbors, <span class="at">zero.policy =</span> <span class="cn">TRUE</span>, <span class="at">style =</span> <span class="st">"B"</span>)</span>
+<span id="cb6-10"><a href="#cb6-10" aria-hidden="true" tabindex="-1"></a></span>
+<span id="cb6-11"><a href="#cb6-11" aria-hidden="true" tabindex="-1"></a>localGEst <span class="ot">&lt;-</span> <span class="fu">localG</span>(cityData<span class="sc">$</span>numCases, gridNeighborList)</span>
+<span id="cb6-12"><a href="#cb6-12" aria-hidden="true" tabindex="-1"></a></span>
+<span id="cb6-13"><a href="#cb6-13" aria-hidden="true" tabindex="-1"></a>cityData<span class="sc">$</span>cluster <span class="ot">&lt;-</span> <span class="fu">attr</span>(localGEst, <span class="st">"cluster"</span>)</span>
+<span id="cb6-14"><a href="#cb6-14" aria-hidden="true" tabindex="-1"></a>cityData<span class="sc">$</span>gScore <span class="ot">&lt;-</span> <span class="fu">as.vector</span>(localGEst)</span>
+<span id="cb6-15"><a href="#cb6-15" aria-hidden="true" tabindex="-1"></a>cityData<span class="sc">$</span>sig <span class="ot">&lt;-</span> <span class="fu">as.numeric</span>(<span class="fu">abs</span>(<span class="fu">as.vector</span>(localGEst)) <span class="sc">&gt;</span> <span class="fl">3.2</span>)</span></code><button title="Copy to Clipboard" class="code-copy-button"><i class="bi"></i></button></pre></div>
 </div>
 </section>
-<section id="plot-labeled-outcomes" class="level2" data-number="6.6">
-<h2 data-number="6.6" class="anchored" data-anchor-id="plot-labeled-outcomes"><span class="header-section-number">6.6</span> Plot labeled outcomes</h2>
+<section id="plot-labeled-outcomes" class="level2" data-number="6.7">
+<h2 data-number="6.7" class="anchored" data-anchor-id="plot-labeled-outcomes"><span class="header-section-number">6.7</span> Plot labeled outcomes</h2>
 <div class="cell">
-<div class="sourceCode cell-code" id="cb6"><pre class="sourceCode r code-with-copy"><code class="sourceCode r"><span id="cb6-1"><a href="#cb6-1" aria-hidden="true" tabindex="-1"></a>g <span class="ot">&lt;-</span> <span class="fu">ggplot</span>(cityData, <span class="fu">aes</span>(<span class="at">x =</span> X, <span class="at">y =</span> Y)) <span class="sc">+</span></span>
-<span id="cb6-2"><a href="#cb6-2" aria-hidden="true" tabindex="-1"></a>  <span class="fu">geom_tile</span>(<span class="fu">aes</span>(<span class="at">fill =</span> gScore)) <span class="sc">+</span></span>
-<span id="cb6-3"><a href="#cb6-3" aria-hidden="true" tabindex="-1"></a>  <span class="fu">geom_text</span>(<span class="fu">aes</span>(<span class="at">label =</span> sig), <span class="at">color =</span> <span class="st">"white"</span>) <span class="sc">+</span></span>
-<span id="cb6-4"><a href="#cb6-4" aria-hidden="true" tabindex="-1"></a>  <span class="fu">coord_equal</span>() <span class="sc">+</span></span>
-<span id="cb6-5"><a href="#cb6-5" aria-hidden="true" tabindex="-1"></a>  <span class="fu">scale_fill_viridis_c</span>()</span>
-<span id="cb6-6"><a href="#cb6-6" aria-hidden="true" tabindex="-1"></a></span>
-<span id="cb6-7"><a href="#cb6-7" aria-hidden="true" tabindex="-1"></a><span class="fu">plot</span>(g)</span></code><button title="Copy to Clipboard" class="code-copy-button"><i class="bi"></i></button></pre></div>
+<div class="sourceCode cell-code" id="cb7"><pre class="sourceCode r code-with-copy"><code class="sourceCode r"><span id="cb7-1"><a href="#cb7-1" aria-hidden="true" tabindex="-1"></a>g <span class="ot">&lt;-</span> <span class="fu">ggplot</span>(cityData, <span class="fu">aes</span>(<span class="at">x =</span> X, <span class="at">y =</span> Y)) <span class="sc">+</span></span>
+<span id="cb7-2"><a href="#cb7-2" aria-hidden="true" tabindex="-1"></a>  <span class="fu">geom_tile</span>(<span class="fu">aes</span>(<span class="at">fill =</span> gScore)) <span class="sc">+</span></span>
+<span id="cb7-3"><a href="#cb7-3" aria-hidden="true" tabindex="-1"></a>  <span class="fu">geom_text</span>(<span class="fu">aes</span>(<span class="at">label =</span> sig), <span class="at">color =</span> <span class="st">"white"</span>) <span class="sc">+</span></span>
+<span id="cb7-4"><a href="#cb7-4" aria-hidden="true" tabindex="-1"></a>  <span class="fu">coord_equal</span>() <span class="sc">+</span></span>
+<span id="cb7-5"><a href="#cb7-5" aria-hidden="true" tabindex="-1"></a>  <span class="fu">scale_fill_viridis_c</span>()</span>
+<span id="cb7-6"><a href="#cb7-6" aria-hidden="true" tabindex="-1"></a></span>
+<span id="cb7-7"><a href="#cb7-7" aria-hidden="true" tabindex="-1"></a><span class="fu">plot</span>(g)</span></code><button title="Copy to Clipboard" class="code-copy-button"><i class="bi"></i></button></pre></div>
 <div class="cell-output-display">
 <div>
 <figure class="figure">
-<p><img src="getis-ord_files/figure-html/unnamed-chunk-7-1.png" class="img-fluid figure-img" width="672"></p>
+<p><img src="getis-ord_files/figure-html/unnamed-chunk-8-1.png" class="img-fluid figure-img" width="672"></p>
 </figure>
 </div>
 </div>
